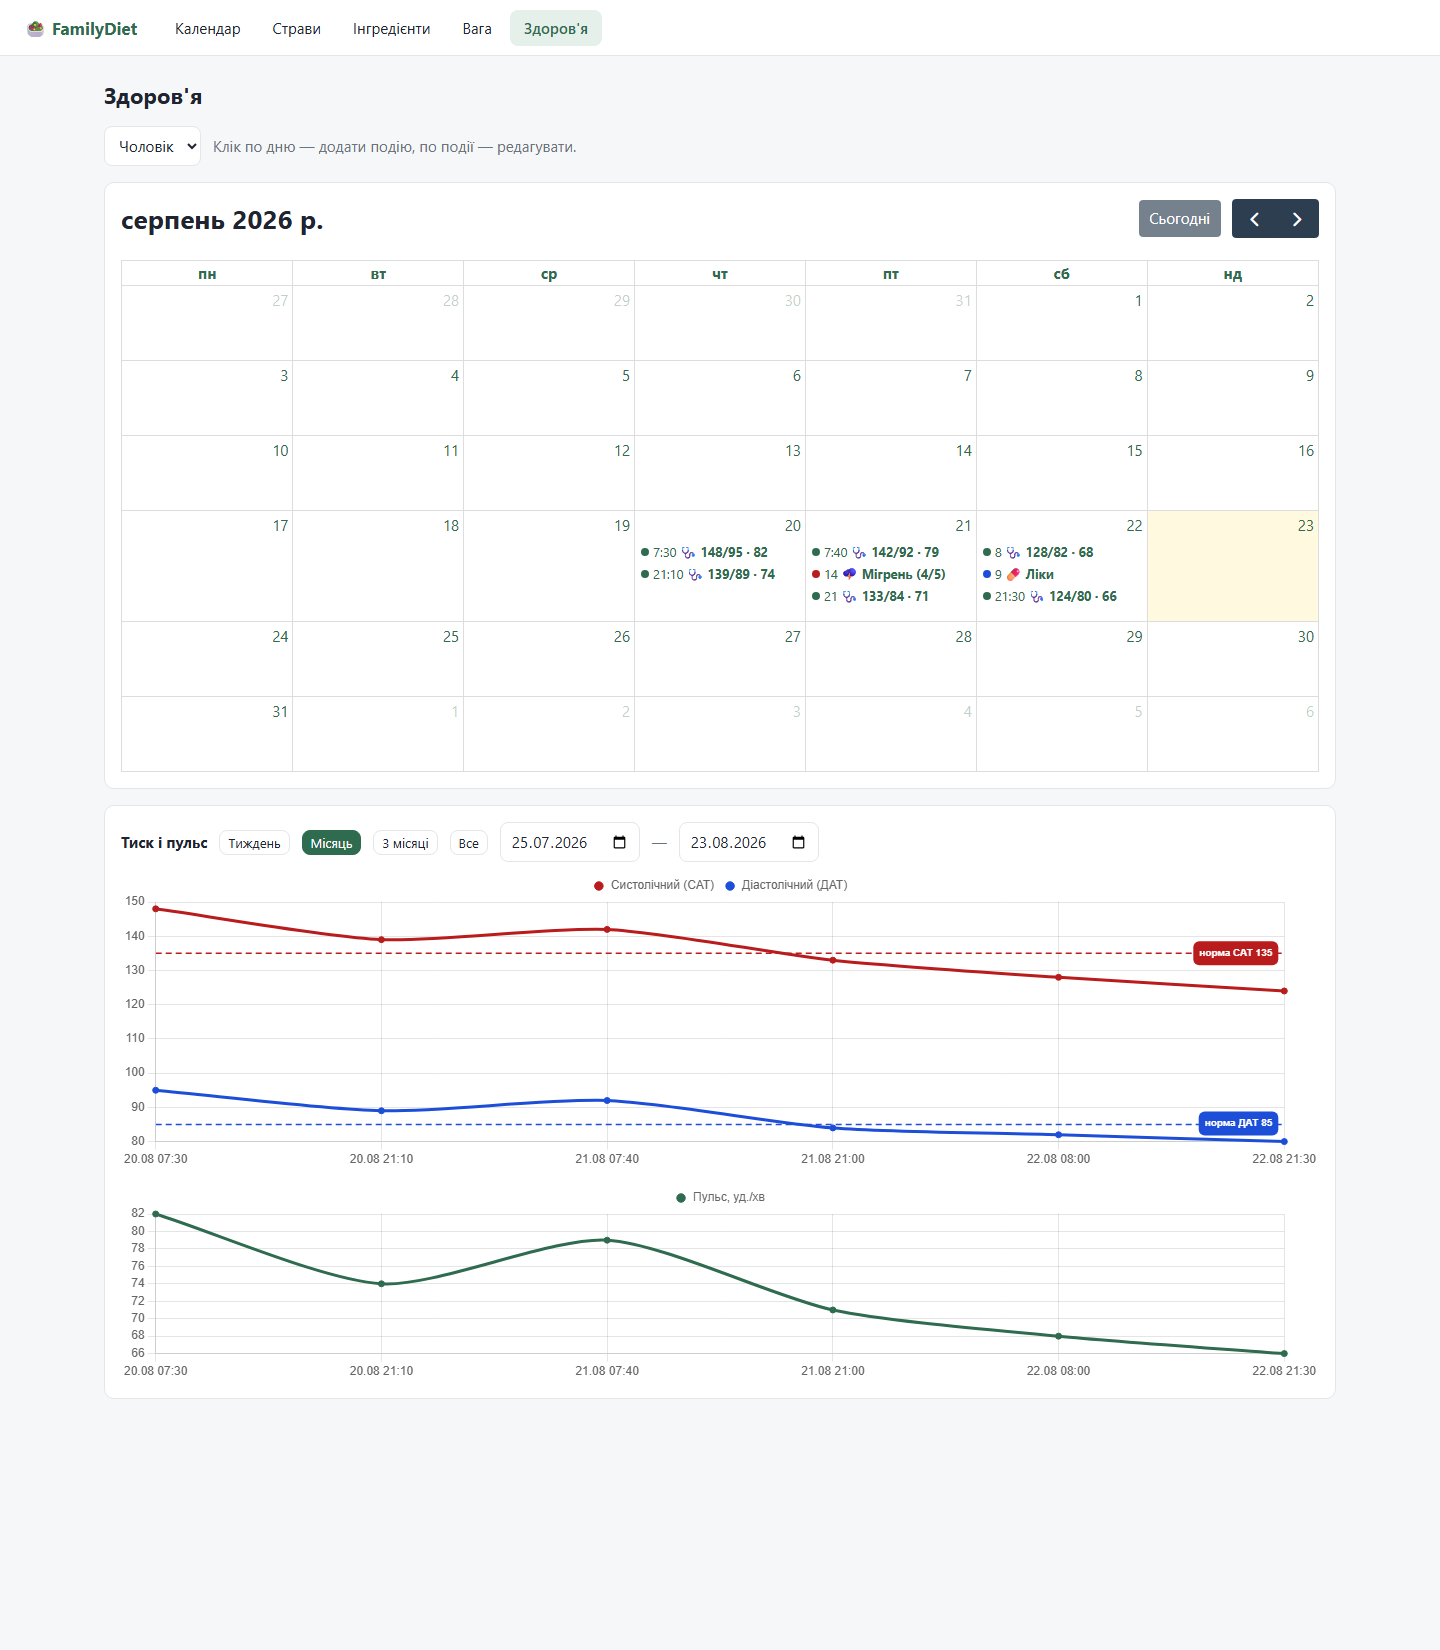
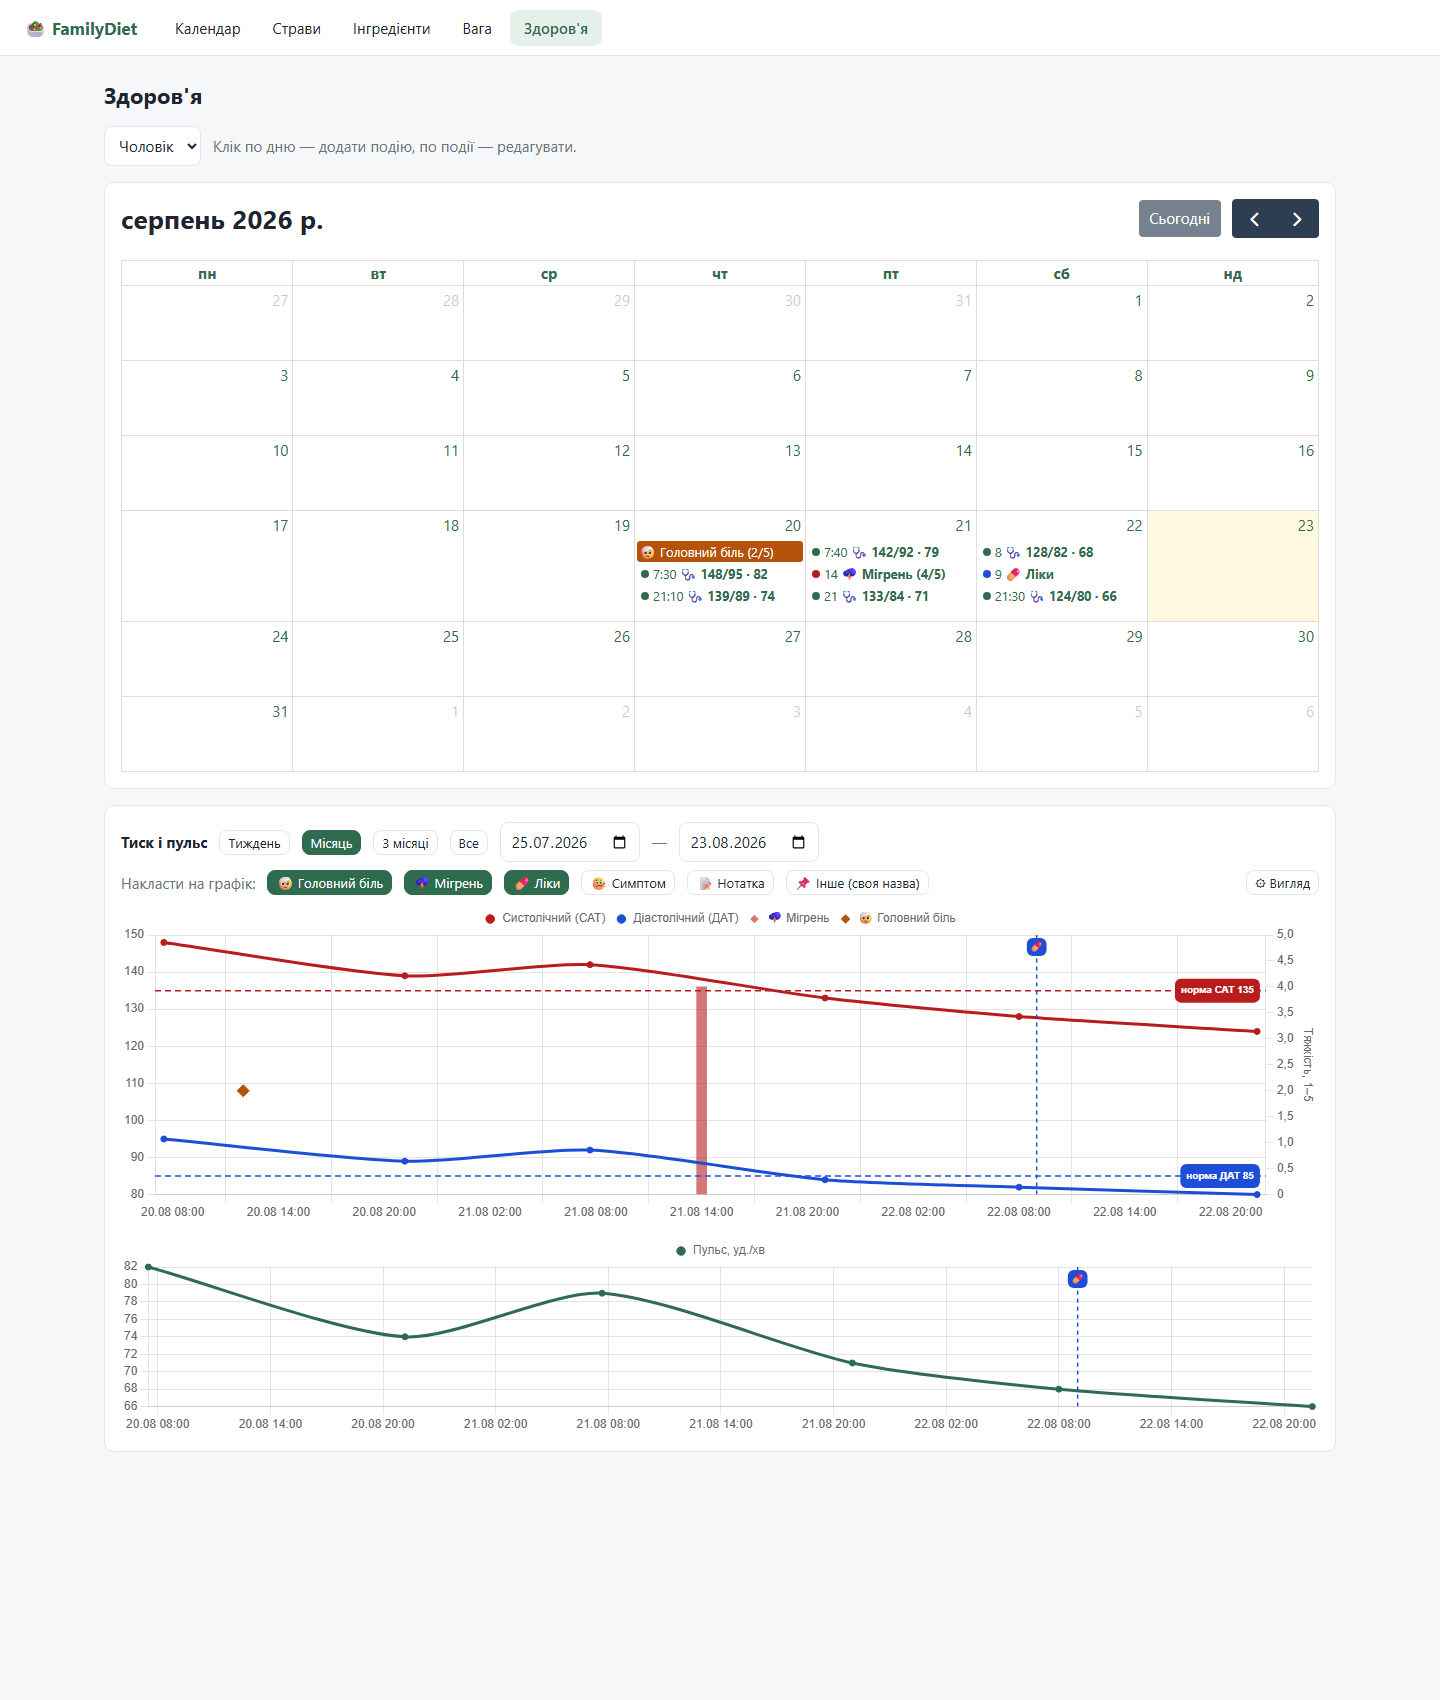
docs: chart overlays and settings API in README, updated screenshot

diff --git a/README.md b/README.md
@@ -92,7 +92,11 @@ S01-S21 перекуси, N01-N07 додаткові перекуси) з окр
 - **Здоров'я** — журнал подій здоров'я в місячному календарі: заміри тиску/пульсу
   (структуровані поля з валідацією), головний біль і мігрень із тяжкістю 1–5,
   ліки, нотатки та власні типи подій. Нижче — графіки САТ/ДАТ і пульсу за обраний
-  період (пресети тиждень/місяць/3 місяці) з пунктирними межами норми 135/85.
+  період (пресети тиждень/місяць/3 місяці) на часовій осі з пунктирними межами
+  норми 135/85. Будь-які типи подій можна **накласти на графік** і дивитись
+  кореляції: тяжкість — точками/стовпчиками/лінією на правій осі 1–5, події без
+  числа — вертикальними маркерами чи смугою на день. Колір і стиль кожного типу
+  налаштовуються (⚙ Вигляд) і зберігаються на бекенді.
 
 ## API (основне)
 
@@ -107,6 +111,7 @@ S01-S21 перекуси, N01-N07 додаткові перекуси) з окр
 | GET/POST/DELETE | `/api/weight-entries` | вага (POST = upsert по даті) |
 | GET | `/api/weight-entries/weekly` | середня вага за ISO-тижнями |
 | GET/POST/PUT/DELETE | `/api/health-events` | журнал здоров'я (`?memberId=&type=&from=&to=`) |
+| GET/PUT | `/api/settings/{key}` | іменовані JSONB-налаштування (вигляд графіка тощо) |
 
 ## Структура
 
